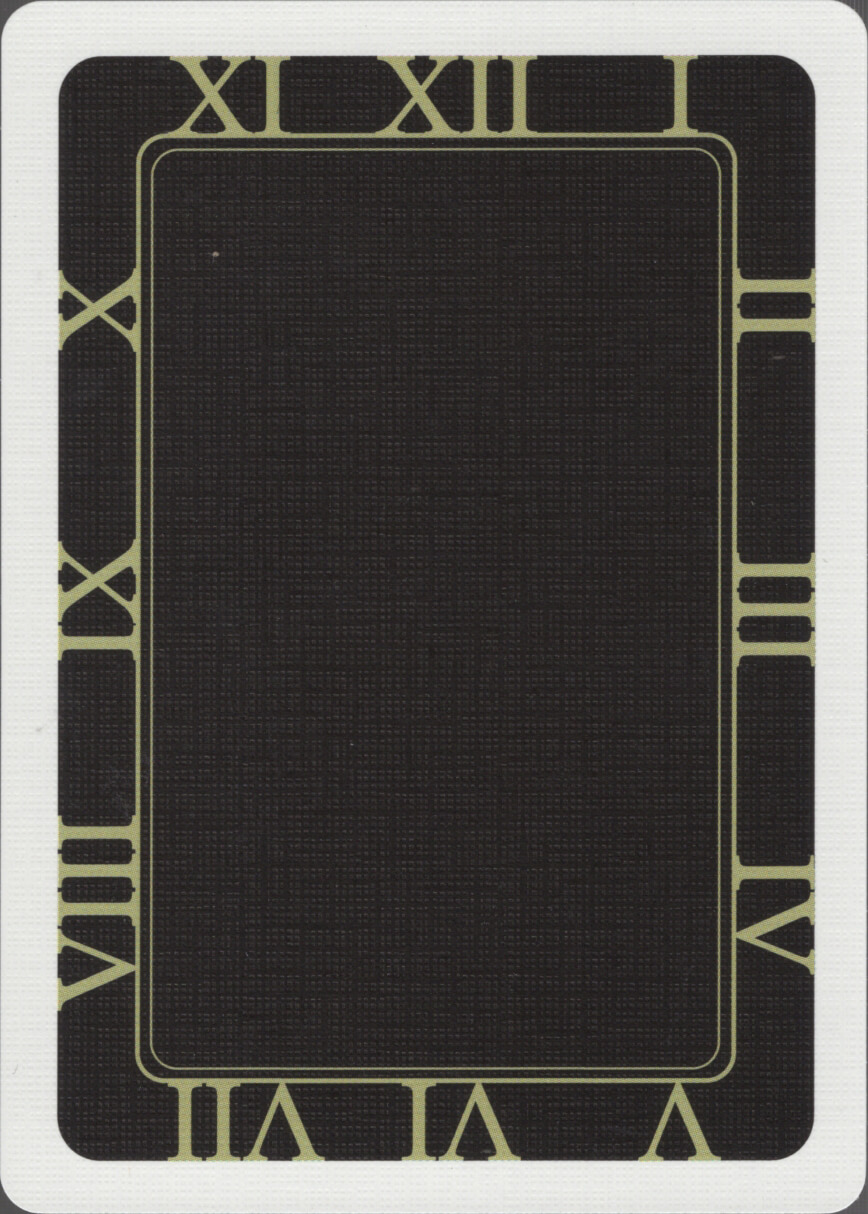
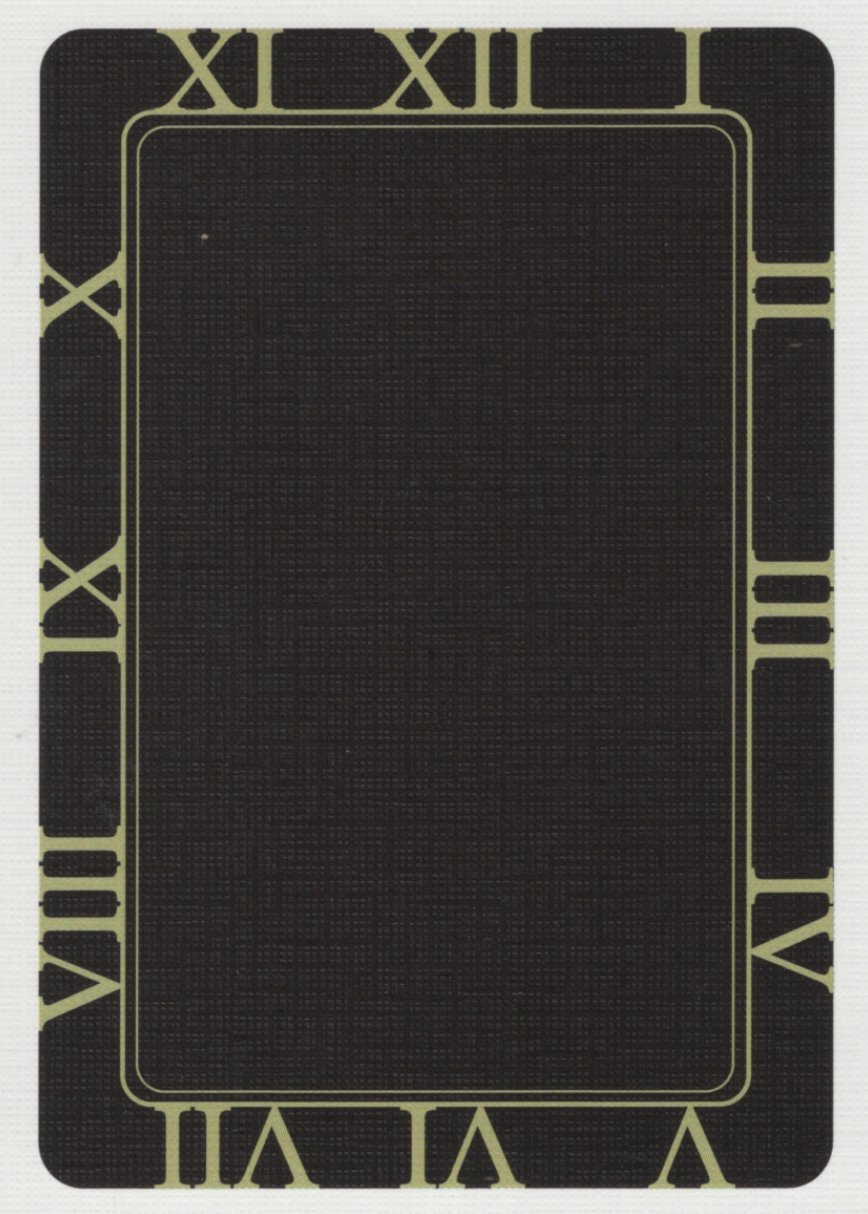
rules

diff --git a/src/pages/index.tsx b/src/pages/index.tsx
@@ -8,11 +8,12 @@ import { ArrowsClockwise } from 'phosphor-react'
 import { useEffect, useState } from 'react'
 
 const HomePage: NextPage = ({}) => {
-  const { t } = useTranslation('common')
+  const { t } = useTranslation('sueca')
   const [card, setCard] = useState<CardProps>()
+  const [flipped, setFlipped] = useState(false)
 
   const generateCard = () => {
-    const index = Math.ceil(Math.random() * 52)
+    const index = Math.floor(Math.random() * 52)
     setCard(cards[index])
     console.log(cards[index])
   }
@@ -20,11 +21,11 @@ const HomePage: NextPage = ({}) => {
   useEffect(() => generateCard(), [])
 
   return (
-    <div className="container-center container flex flex-col gap-4">
+    <div className="container-center container flex flex-col gap-4 font-xyz">
       <button onClick={generateCard}>
         <ArrowsClockwise />
       </button>
-      <FlipCard.Root>
+      <FlipCard.Root value={flipped} onClick={() => setFlipped(!flipped)}>
         <FlipCard.Card side="front">
           {card && (
             <Image
@@ -39,13 +40,13 @@ const HomePage: NextPage = ({}) => {
         <FlipCard.Card side="back">
           <Image
             alt="card back"
-            src="/images/especial/back1.jpg"
+            src="/images/especial/back2.jpg"
             fill
             sizes="100%"
             priority
           />
-          <h1 className="absolute w-1/2 text-center text-xl font-bold">
-            Escolha 3 pessoas para beber
+          <h1 className="absolute w-1/2 text-center text-7xl font-medium text-gray-300">
+            {t(card?.value.toString() || '')}
           </h1>
         </FlipCard.Card>
       </FlipCard.Root>
@@ -58,7 +59,7 @@ export default HomePage
 export const getStaticProps: GetStaticProps = async ({ locale }) => {
   return {
     props: {
-      ...(await serverSideTranslations(locale as string, ['common', 'form'])),
+      ...(await serverSideTranslations(locale as string, ['common', 'sueca'])),
     },
   }
 }

diff --git a/src/pages/_app.tsx b/src/pages/_app.tsx
@@ -4,14 +4,25 @@ import { HeaderLayout } from '@/layouts'
 import '@/styles/globals.css'
 import { appWithTranslation } from 'next-i18next'
 import type { AppProps } from 'next/app'
+import { Amatic_SC as font } from 'next/font/google'
+
+// import { Reenie_Beanie as font } from 'next/font/google'
+
+const xyz = font({
+  weight: '400',
+  subsets: ['latin'],
+  variable: '--font-xyz',
+})
 
 function App({ Component, pageProps }: AppProps) {
   return (
     <AppProvider>
-      <HeaderLayout>
-        <Head title="Next App" />
-        <Component {...pageProps} />
-      </HeaderLayout>
+      <main className={xyz.variable}>
+        <HeaderLayout>
+          <Head title="Next App" />
+          <Component {...pageProps} />
+        </HeaderLayout>
+      </main>
     </AppProvider>
   )
 }

diff --git a/src/components/FlipCard/Root/index.tsx b/src/components/FlipCard/Root/index.tsx
@@ -6,6 +6,7 @@ import FlipCard, { FlipCardCardProps } from '..'
 export interface FlipCardRootProps
   extends React.HTMLAttributes<HTMLDivElement> {
   defaultFlipped?: boolean
+  value?: boolean
   children: [
     React.ReactElement<FlipCardCardProps>,
     React.ReactElement<FlipCardCardProps>
@@ -14,6 +15,7 @@ export interface FlipCardRootProps
 
 const FlipCardRoot: React.FC<FlipCardRootProps> = ({
   defaultFlipped,
+  value,
   children,
   className,
   onClick,

diff --git a/tailwind.config.js b/tailwind.config.js
@@ -27,6 +27,9 @@ module.exports = {
       aspectRatio: {
         card: '5/7',
       },
+      fontFamily: {
+        xyz: 'var(--font-xyz)',
+      },
     },
   },
   plugins: [],
